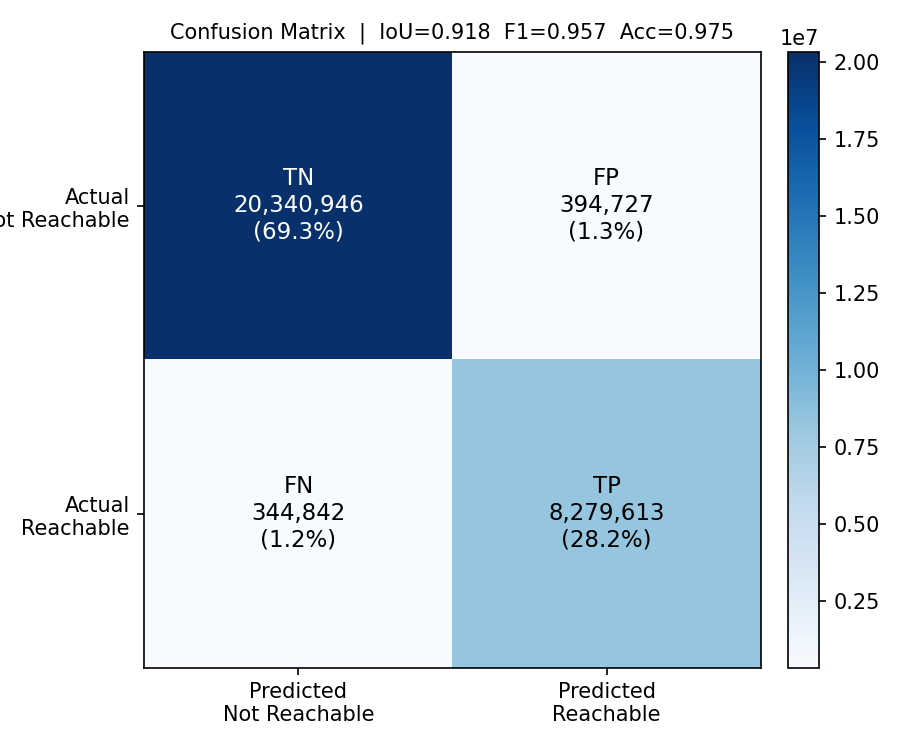
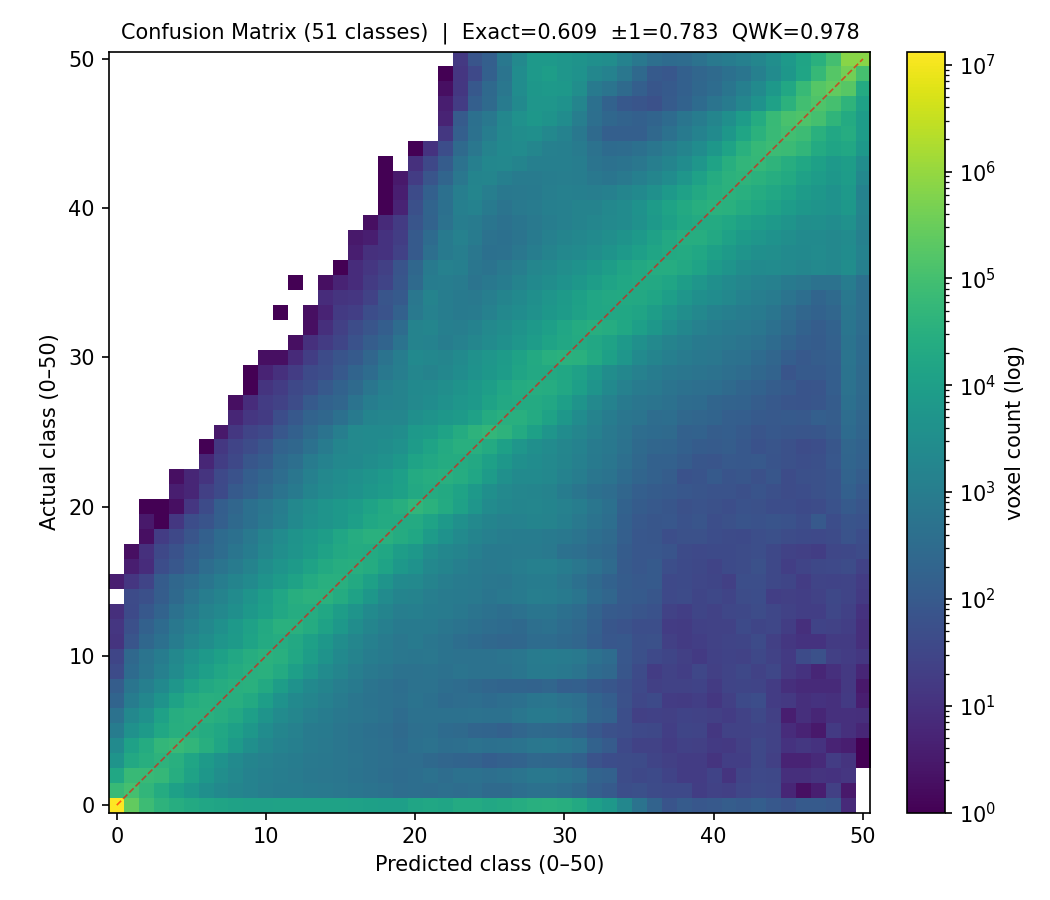
class evaluation

diff --git a/unet_3d/script/evaluate.py b/unet_3d/script/evaluate.py
@@ -1,12 +1,15 @@
 """
-CapaciNet – Evaluation script: regression metrics + confusion matrix + IoU.
+CapaciNet – Evaluation script: regression metrics + 51-class (0–50) classification.
+
+The reachability index is a fraction of 50 (n reachable orientations -> n/50), so
+classification treats each voxel as one of 51 ordinal classes via
+class = round(value * 50), applied to BOTH prediction and ground truth.
 
 Usage (inside Apptainer container):
     python evaluate.py \
         --config     /workspace/unet_3d/experiments/<exp>/config.yaml \
         --checkpoint /workspace/unet_3d/experiments/<exp>/checkpoint/best_checkpoint.pytorch \
-        --output_dir /workspace/unet_3d/experiments/<exp>/evaluation \
-        --threshold  0.5
+        --output_dir /workspace/unet_3d/experiments/<exp>/evaluation
 """
 import argparse
 import os
@@ -70,6 +73,19 @@ def predict_file(model, device, filepath):
     return pred.ravel(), label.ravel().astype(np.float32)
 
 
+N_CLASSES = 51  # reachability index is a fraction of 50 -> classes 0..50
+
+
+def to_classes(arr):
+    """Quantize a [0,1] reachability fraction into integer classes 0..50.
+
+    Each voxel's reachability is n/50 (n reachable orientations), so the natural
+    class label is round(value * 50). Predictions are post-sigmoid (model in eval
+    mode), but clip guards any tiny over/undershoot.
+    """
+    return np.clip(np.rint(arr * 50.0), 0, 50).astype(np.int16)
+
+
 # =============================================================================
 #  METRICS
 # =============================================================================
@@ -82,25 +98,89 @@ def regression_metrics(preds, labels):
     return {"MAE": mae, "RMSE": rmse, "Pearson_r": float(r)}
 
 
-def classification_metrics(preds, labels, threshold=0.5):
-    p_bin = (preds  >= threshold).astype(np.int8)
-    l_bin = (labels >= threshold).astype(np.int8)
+def confusion_matrix(pred_cls, label_cls, n_classes=N_CLASSES):
+    """Dense (n_classes x n_classes) confusion matrix (rows=actual, cols=pred)."""
+    idx = label_cls.astype(np.int64) * n_classes + pred_cls.astype(np.int64)
+    cm = np.bincount(idx, minlength=n_classes * n_classes)
+    return cm.reshape(n_classes, n_classes).astype(np.int64)
 
-    tp = int(np.sum((p_bin == 1) & (l_bin == 1)))
-    tn = int(np.sum((p_bin == 0) & (l_bin == 0)))
-    fp = int(np.sum((p_bin == 1) & (l_bin == 0)))
-    fn = int(np.sum((p_bin == 0) & (l_bin == 1)))
 
-    precision = tp / (tp + fp) if (tp + fp) > 0 else 0.0
-    recall    = tp / (tp + fn) if (tp + fn) > 0 else 0.0
-    f1        = 2 * precision * recall / (precision + recall) if (precision + recall) > 0 else 0.0
-    iou       = tp / (tp + fp + fn) if (tp + fp + fn) > 0 else 0.0
-    accuracy  = (tp + tn) / (tp + tn + fp + fn) if (tp + tn + fp + fn) > 0 else 0.0
+def quadratic_weighted_kappa(cm):
+    """Cohen's quadratic-weighted kappa from a confusion matrix (ordinal agreement)."""
+    n = cm.shape[0]
+    total = cm.sum()
+    if total == 0:
+        return 0.0
+    O = cm.astype(np.float64) / total                 # observed joint distribution
+    act = O.sum(axis=1)                                # actual marginal
+    prd = O.sum(axis=0)                                # predicted marginal
+    E = np.outer(act, prd)                             # expected under independence
+    i = np.arange(n)
+    W = (i[:, None] - i[None, :]) ** 2 / float((n - 1) ** 2)
+    denom = float((W * E).sum())
+    if denom == 0:
+        return 1.0
+    return float(1.0 - (W * O).sum() / denom)
+
+
+def multiclass_metrics(pred_cls, label_cls, n_classes=N_CLASSES):
+    """Ordinal 51-class metrics measured on the integer-class arrays."""
+    diff = np.abs(pred_cls.astype(np.int32) - label_cls.astype(np.int32))
+    n = diff.size
+
+    exact   = float(np.mean(diff == 0))
+    within1 = float(np.mean(diff <= 1))
+    within2 = float(np.mean(diff <= 2))
+    mace    = float(np.mean(diff))          # mean absolute class error (orientation steps)
+    medce   = float(np.median(diff))
+    rmsece  = float(np.sqrt(np.mean(diff.astype(np.float64) ** 2)))
+
+    cm = confusion_matrix(pred_cls, label_cls, n_classes)
+    qwk = quadratic_weighted_kappa(cm)
 
     return {
-        "TP": tp, "TN": tn, "FP": fp, "FN": fn,
-        "Precision": precision, "Recall": recall,
-        "F1": f1, "IoU": iou, "Accuracy": accuracy,
+        "ExactAccuracy": exact,
+        "Within1Accuracy": within1,
+        "Within2Accuracy": within2,
+        "MeanClassError": mace,
+        "MedianClassError": medce,
+        "RMSEClass": rmsece,
+        "QuadraticKappa": qwk,
+        "N": int(n),
+        "ConfusionMatrix": cm,
+    }
+
+
+def merge_class_metrics(cm, n_voxels):
+    """Recompute scalar metrics from an accumulated confusion matrix.
+
+    Lets the global aggregate be derived by summing per-file confusion matrices
+    instead of concatenating every voxel.
+    """
+    n = cm.shape[0]
+    i = np.arange(n)
+    diff = np.abs(i[:, None] - i[None, :])             # (actual, pred) class distance
+    counts = cm.astype(np.float64)
+    total = counts.sum()
+    if total == 0:
+        total = 1.0
+
+    exact   = float(np.trace(counts) / total)
+    within1 = float(counts[diff <= 1].sum() / total)
+    within2 = float(counts[diff <= 2].sum() / total)
+    mace    = float((counts * diff).sum() / total)
+    rmsece  = float(np.sqrt((counts * diff.astype(np.float64) ** 2).sum() / total))
+
+    return {
+        "ExactAccuracy": exact,
+        "Within1Accuracy": within1,
+        "Within2Accuracy": within2,
+        "MeanClassError": mace,
+        "MedianClassError": float("nan"),  # not recoverable from the matrix
+        "RMSEClass": rmsece,
+        "QuadraticKappa": quadratic_weighted_kappa(cm),
+        "N": int(n_voxels),
+        "ConfusionMatrix": cm,
     }
 
 
@@ -108,33 +188,29 @@ def classification_metrics(preds, labels, threshold=0.5):
 #  PLOTS
 # =============================================================================
 
-def plot_confusion_matrix(cm_metrics, output_path):
+def plot_confusion_matrix(cls_metrics, output_path):
     if not _HAS_MATPLOTLIB:
         return
-    tp, tn = cm_metrics["TP"], cm_metrics["TN"]
-    fp, fn = cm_metrics["FP"], cm_metrics["FN"]
-    total  = tp + tn + fp + fn
+    from matplotlib.colors import LogNorm
 
-    matrix = np.array([[tn, fp], [fn, tp]])
-    labels = np.array([
-        [f"TN\n{tn:,}\n({100*tn/total:.1f}%)", f"FP\n{fp:,}\n({100*fp/total:.1f}%)"],
-        [f"FN\n{fn:,}\n({100*fn/total:.1f}%)", f"TP\n{tp:,}\n({100*tp/total:.1f}%)"],
-    ])
+    cm = cls_metrics["ConfusionMatrix"].astype(np.float64)
+    n = cm.shape[0]
 
-    fig, ax = plt.subplots(figsize=(6, 5))
-    im = ax.imshow(matrix, cmap="Blues")
-    ax.set_xticks([0, 1]); ax.set_xticklabels(["Predicted\nNot Reachable", "Predicted\nReachable"])
-    ax.set_yticks([0, 1]); ax.set_yticklabels(["Actual\nNot Reachable", "Actual\nReachable"])
-    for i in range(2):
-        for j in range(2):
-            ax.text(j, i, labels[i, j], ha="center", va="center", fontsize=11,
-                    color="white" if matrix[i, j] > matrix.max() * 0.6 else "black")
+    fig, ax = plt.subplots(figsize=(7, 6))
+    # Log colour: class 0 (empty space) dominates by orders of magnitude.
+    im = ax.imshow(cm, origin="lower", cmap="viridis",
+                   norm=LogNorm(vmin=1, vmax=max(cm.max(), 1)))
+    ax.plot([0, n - 1], [0, n - 1], "r--", lw=0.8, alpha=0.6)  # perfect-agreement diagonal
+    ax.set_xlabel("Predicted class (0–50)")
+    ax.set_ylabel("Actual class (0–50)")
     ax.set_title(
-        f"Confusion Matrix  |  IoU={cm_metrics['IoU']:.3f}  F1={cm_metrics['F1']:.3f}  "
-        f"Acc={cm_metrics['Accuracy']:.3f}",
+        f"Confusion Matrix ({n} classes)  |  "
+        f"Exact={cls_metrics['ExactAccuracy']:.3f}  "
+        f"±1={cls_metrics['Within1Accuracy']:.3f}  "
+        f"QWK={cls_metrics['QuadraticKappa']:.3f}",
         fontsize=10,
     )
-    plt.colorbar(im, ax=ax, fraction=0.046, pad=0.04)
+    plt.colorbar(im, ax=ax, fraction=0.046, pad=0.04, label="voxel count (log)")
     plt.tight_layout()
     plt.savefig(output_path, dpi=150)
     plt.close()
@@ -167,18 +243,17 @@ def print_header(title):
 
 
 def print_metrics(reg, cls):
-    print(f"\n  -- Regression --")
+    print(f"\n  -- Regression (continuous) --")
     print(f"  MAE       : {reg['MAE']:.6f}")
     print(f"  RMSE      : {reg['RMSE']:.6f}")
     print(f"  Pearson r : {reg['Pearson_r']:.6f}")
-    print(f"\n  -- Classification (threshold 0.5) --")
-    print(f"  TP: {cls['TP']:>12,}   FP: {cls['FP']:>12,}")
-    print(f"  FN: {cls['FN']:>12,}   TN: {cls['TN']:>12,}")
-    print(f"  Precision : {cls['Precision']:.4f}")
-    print(f"  Recall    : {cls['Recall']:.4f}")
-    print(f"  F1        : {cls['F1']:.4f}")
-    print(f"  IoU       : {cls['IoU']:.4f}")
-    print(f"  Accuracy  : {cls['Accuracy']:.4f}")
+    print(f"\n  -- Classification (51 classes, 0–50) --")
+    print(f"  Exact accuracy   : {cls['ExactAccuracy']:.4f}")
+    print(f"  Within-±1 acc.   : {cls['Within1Accuracy']:.4f}")
+    print(f"  Within-±2 acc.   : {cls['Within2Accuracy']:.4f}")
+    print(f"  Mean class error : {cls['MeanClassError']:.4f}  (orientation steps)")
+    print(f"  RMSE (class)     : {cls['RMSEClass']:.4f}")
+    print(f"  Quadratic kappa  : {cls['QuadraticKappa']:.4f}")
 
 
 def save_report(reg, cls, output_path, n_files, n_voxels):
@@ -186,18 +261,17 @@ def save_report(reg, cls, output_path, n_files, n_voxels):
         f.write("=== CapaciNet Evaluation Report ===\n\n")
         f.write(f"Val files : {n_files}\n")
         f.write(f"Voxels    : {n_voxels:,}\n\n")
-        f.write("-- Regression --\n")
+        f.write("-- Regression (continuous) --\n")
         f.write(f"MAE       : {reg['MAE']:.6f}\n")
         f.write(f"RMSE      : {reg['RMSE']:.6f}\n")
         f.write(f"Pearson r : {reg['Pearson_r']:.6f}\n\n")
-        f.write("-- Classification (threshold 0.5) --\n")
-        f.write(f"TP: {cls['TP']:,}   FP: {cls['FP']:,}\n")
-        f.write(f"FN: {cls['FN']:,}   TN: {cls['TN']:,}\n")
-        f.write(f"Precision : {cls['Precision']:.4f}\n")
-        f.write(f"Recall    : {cls['Recall']:.4f}\n")
-        f.write(f"F1        : {cls['F1']:.4f}\n")
-        f.write(f"IoU       : {cls['IoU']:.4f}\n")
-        f.write(f"Accuracy  : {cls['Accuracy']:.4f}\n")
+        f.write("-- Classification (51 classes, 0-50; class = round(value*50)) --\n")
+        f.write(f"Exact accuracy   : {cls['ExactAccuracy']:.4f}\n")
+        f.write(f"Within-+-1 acc.  : {cls['Within1Accuracy']:.4f}\n")
+        f.write(f"Within-+-2 acc.  : {cls['Within2Accuracy']:.4f}\n")
+        f.write(f"Mean class error : {cls['MeanClassError']:.4f}  (orientation steps)\n")
+        f.write(f"RMSE (class)     : {cls['RMSEClass']:.4f}\n")
+        f.write(f"Quadratic kappa  : {cls['QuadraticKappa']:.4f}\n")
 
 
 # =============================================================================
@@ -205,11 +279,10 @@ def save_report(reg, cls, output_path, n_files, n_voxels):
 # =============================================================================
 
 def main():
-    parser = argparse.ArgumentParser(description="CapaciNet evaluation: regression + confusion matrix + IoU")
+    parser = argparse.ArgumentParser(description="CapaciNet evaluation: regression + 51-class (0–50) classification")
     parser.add_argument("--config",     required=True, help="Path to experiment config.yaml")
     parser.add_argument("--checkpoint", required=True, help="Path to best_checkpoint.pytorch")
     parser.add_argument("--output_dir", required=True, help="Directory where results are saved")
-    parser.add_argument("--threshold",  type=float, default=0.5, help="Binarization threshold (default: 0.5)")
     parser.add_argument("--val_dir",    default=None,
                         help="Override val directory from config (useful when config has container paths)")
     args = parser.parse_args()
@@ -228,11 +301,12 @@ def main():
 
     print_header(f"CapaciNet Evaluation  |  {len(val_files)} val files")
     print(f"  Checkpoint : {args.checkpoint}")
-    print(f"  Threshold  : {args.threshold}")
+    print(f"  Classes    : {N_CLASSES} (0–50, class = round(value*50))")
 
     model, device = load_model(config, args.checkpoint)
 
     all_preds, all_labels = [], []
+    global_cm = np.zeros((N_CLASSES, N_CLASSES), dtype=np.int64)
     per_file_rows = []
 
     for i, fp in enumerate(val_files):
@@ -241,19 +315,25 @@ def main():
         all_preds.append(preds)
         all_labels.append(labels)
 
+        # First treatment: quantize pred + GT to integer classes 0..50.
+        pred_cls  = to_classes(preds)
+        label_cls = to_classes(labels)
+
         reg = regression_metrics(preds, labels)
-        cls = classification_metrics(preds, labels, args.threshold)
+        cls = multiclass_metrics(pred_cls, label_cls)
+        global_cm += cls["ConfusionMatrix"]
         per_file_rows.append((fname, reg, cls))
 
         print(f"  [{i+1:4d}/{len(val_files)}] {fname:<45} "
-              f"MAE={reg['MAE']:.4f}  IoU={cls['IoU']:.4f}  F1={cls['F1']:.4f}")
+              f"MAE={reg['MAE']:.4f}  Exact={cls['ExactAccuracy']:.4f}  "
+              f"±1={cls['Within1Accuracy']:.4f}  QWK={cls['QuadraticKappa']:.4f}")
 
     # Global aggregate
     all_preds  = np.concatenate(all_preds)
     all_labels = np.concatenate(all_labels)
 
     global_reg = regression_metrics(all_preds, all_labels)
-    global_cls = classification_metrics(all_preds, all_labels, args.threshold)
+    global_cls = merge_class_metrics(global_cm, n_voxels=len(all_preds))
 
     print_header("Global Results")
     print(f"  Val files : {len(val_files)}")
